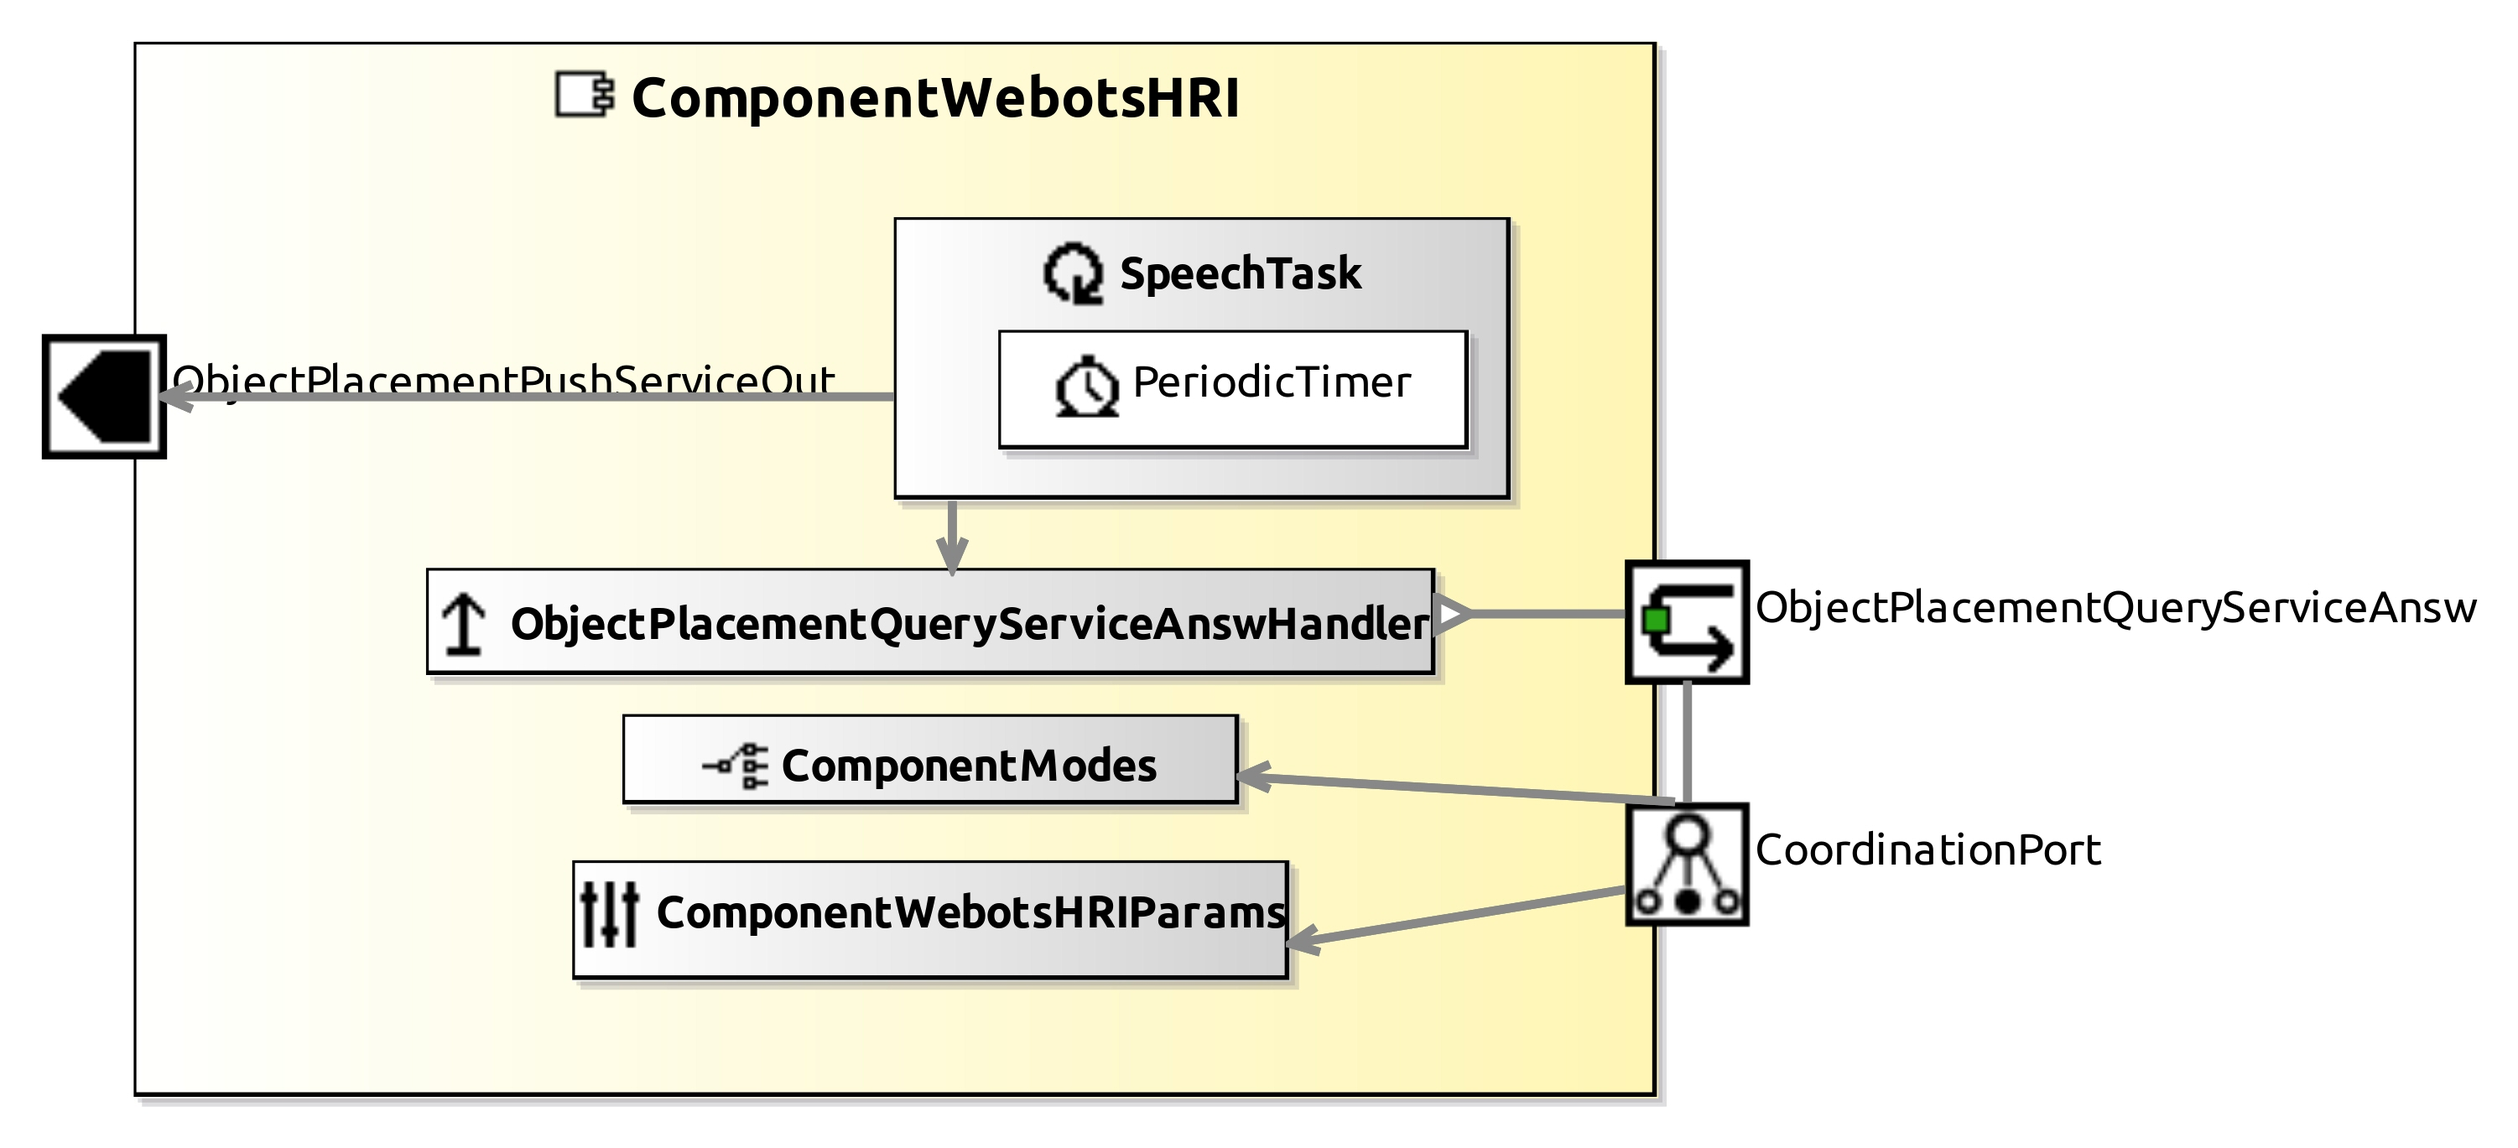
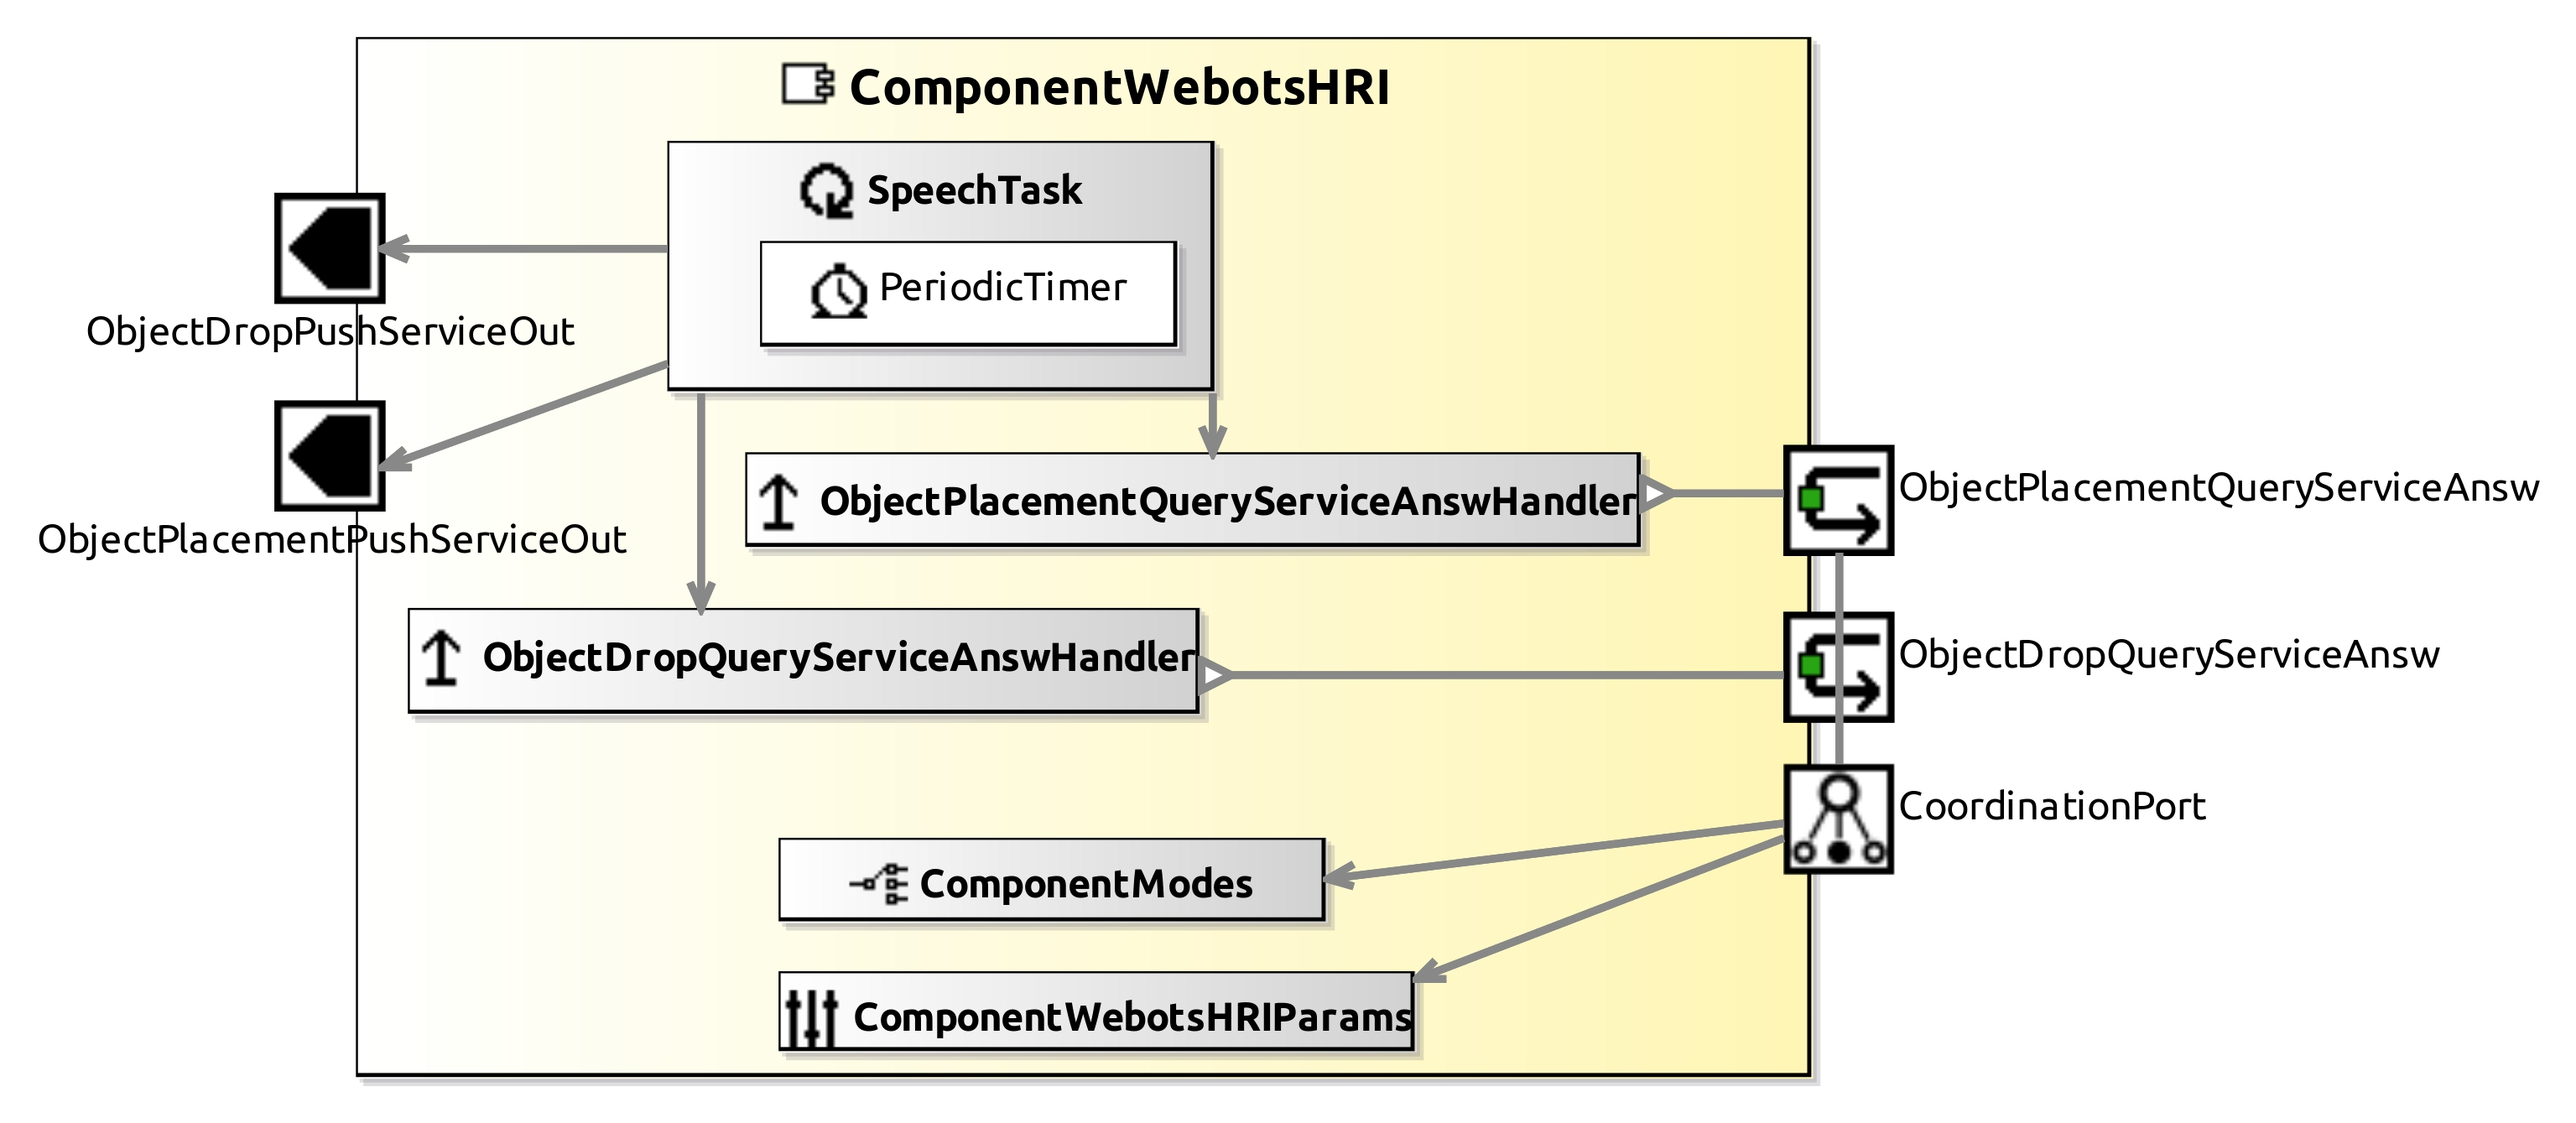
update documentation

Changed region(s): [[0.0, 0.0306, 0.9913, 0.9798]]

diff --git a/ComponentWebotsRobot/README.md b/ComponentWebotsRobot/README.md
@@ -10,7 +10,7 @@ This Component provides sensors raw data and it updates the robot controller. On
 | **LocalizationUpdateServiceIn**: not implemented yet | **BatteryPushServiceOut**: Battery status (level, power and others) |
 | **NavigationVelocityServiceIn**: velocity commands (linear velocities and turnrate) | **BaseStateServiceOut**: state of the robot's base (position and orientation) |
 | **ObjectPlacementPushServiceIn**: HRI to query an object placement on it | **LaserServiceOut**: Lidar values |
-| | **ObjectPushServiceOut**: recognized objects and properties |
+| **ObjectDropPushServiceIn**: HRI to query an object drop | **ObjectPushServiceOut**: recognized objects and properties |
 | | **RGBImagePushServiceOut**: Camera image |
 | | **BumperEventServiceOut**: It triggers if robot is too close to something |
 | | **SimpleBumperServiceOut**: It periodically sends info about robot state of "bump" (too close or far from objects/people) |

diff --git a/ComponentWebotsHRI/README.md b/ComponentWebotsHRI/README.md
@@ -9,3 +9,5 @@ This Component provides human-robot interaction: skills for the robot to query s
 | ------- | ------- |
 | | **ObjectPlacementPushServiceOut**: HRI to query an object placement on it |
 | | **ObjectPlacementQueryServiceAnsw**: It is possible to send Lisp commands to query object placement |
+| | **ObjectDropPushServiceOut**: HRI to query an object drop |
+| | **ObjectDropQueryServiceAnsw**: It is possible to send Lisp commands to query object drop |
